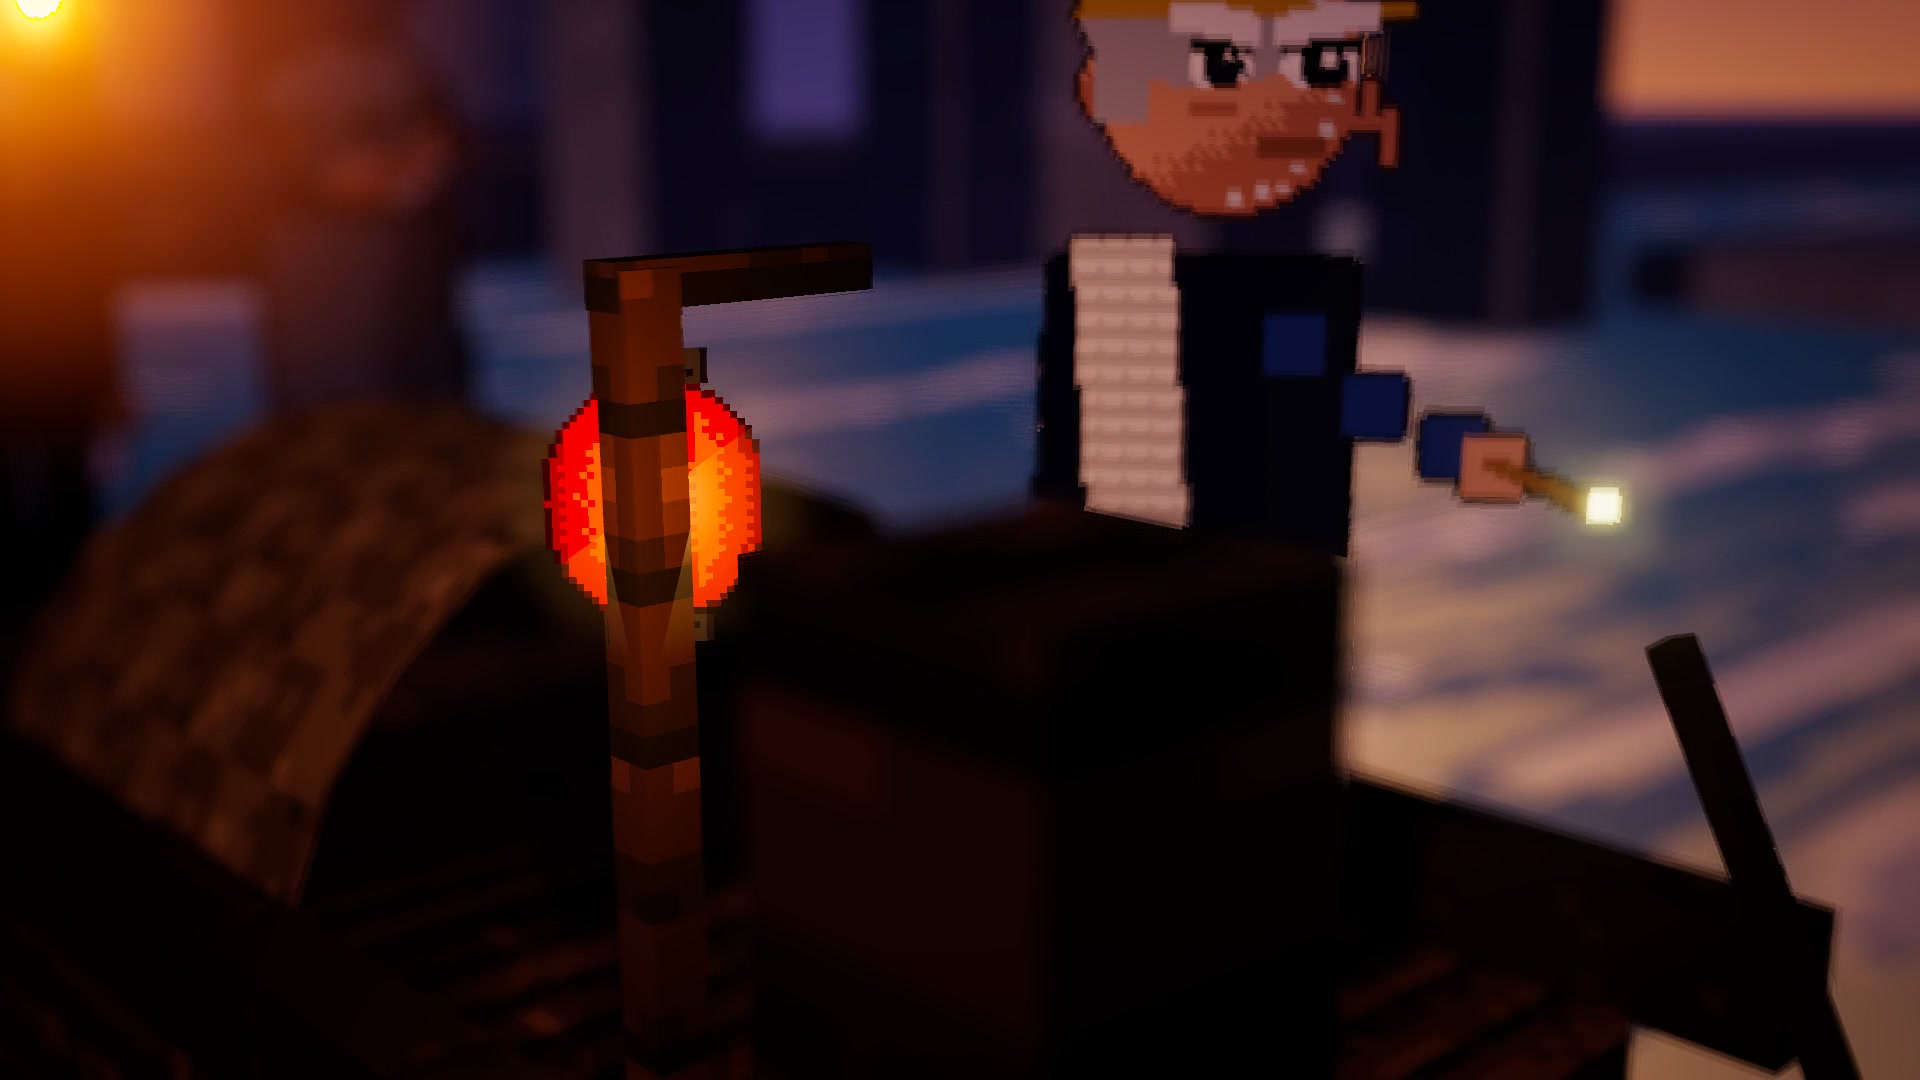
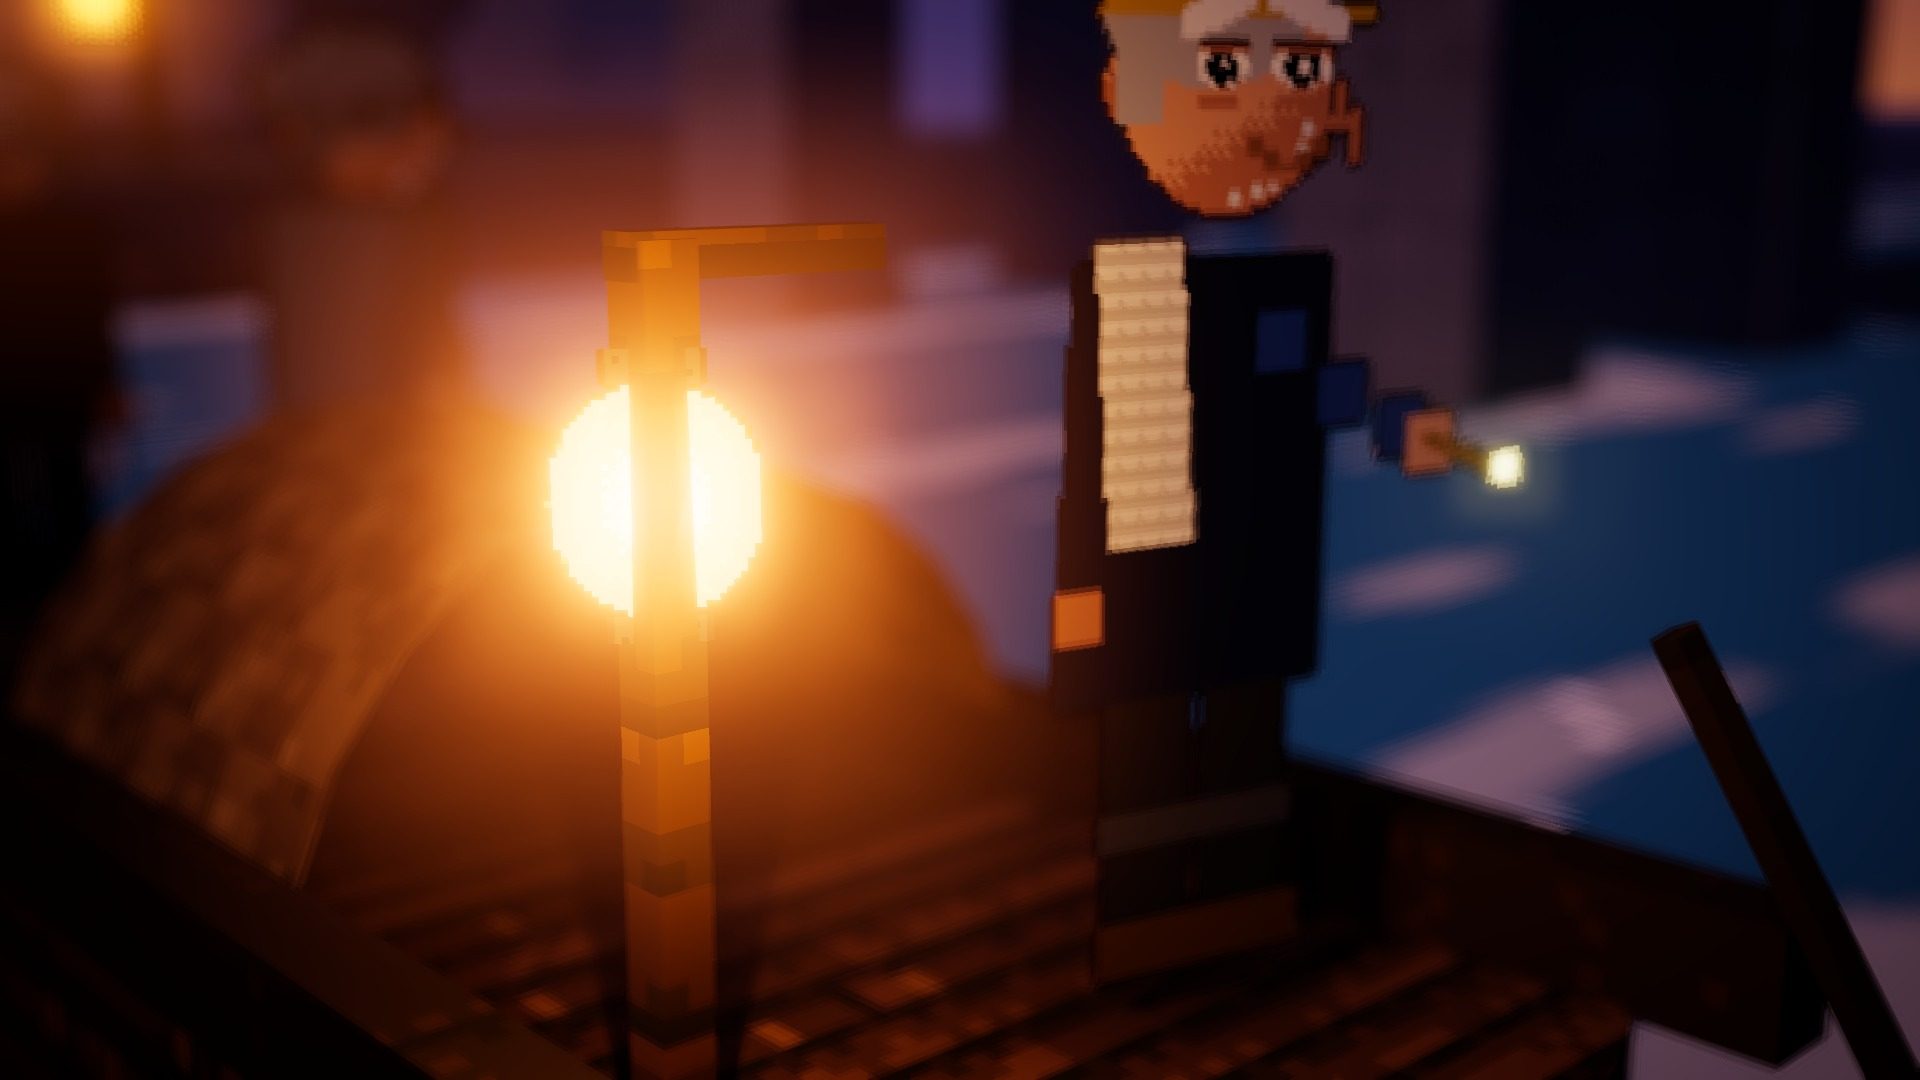
last-ferry: poster (the lantern lit at dusk), ?noui switch
Claude-Session: https://claude.ai/code/session_01SfPLwtN1ZfjwbzHMScZG7k

diff --git a/films/last-ferry/main.js b/films/last-ferry/main.js
@@ -45,7 +45,7 @@ window.render = t => {
   } else post.dof.tiltAmt = 0;
   if (Q.has('nodof')) post.dof.maxCoc = 0;
   post.composer.render();
-  drawOverlay(t);
+  if (!Q.has('noui')) drawOverlay(t); else document.getElementById('ov').getContext('2d').clearRect(0, 0, W, H);   // ?noui=1: poster frames
 };
 window.TEXTS = texts;
 // sound events for the mixer (foley on the frame)
